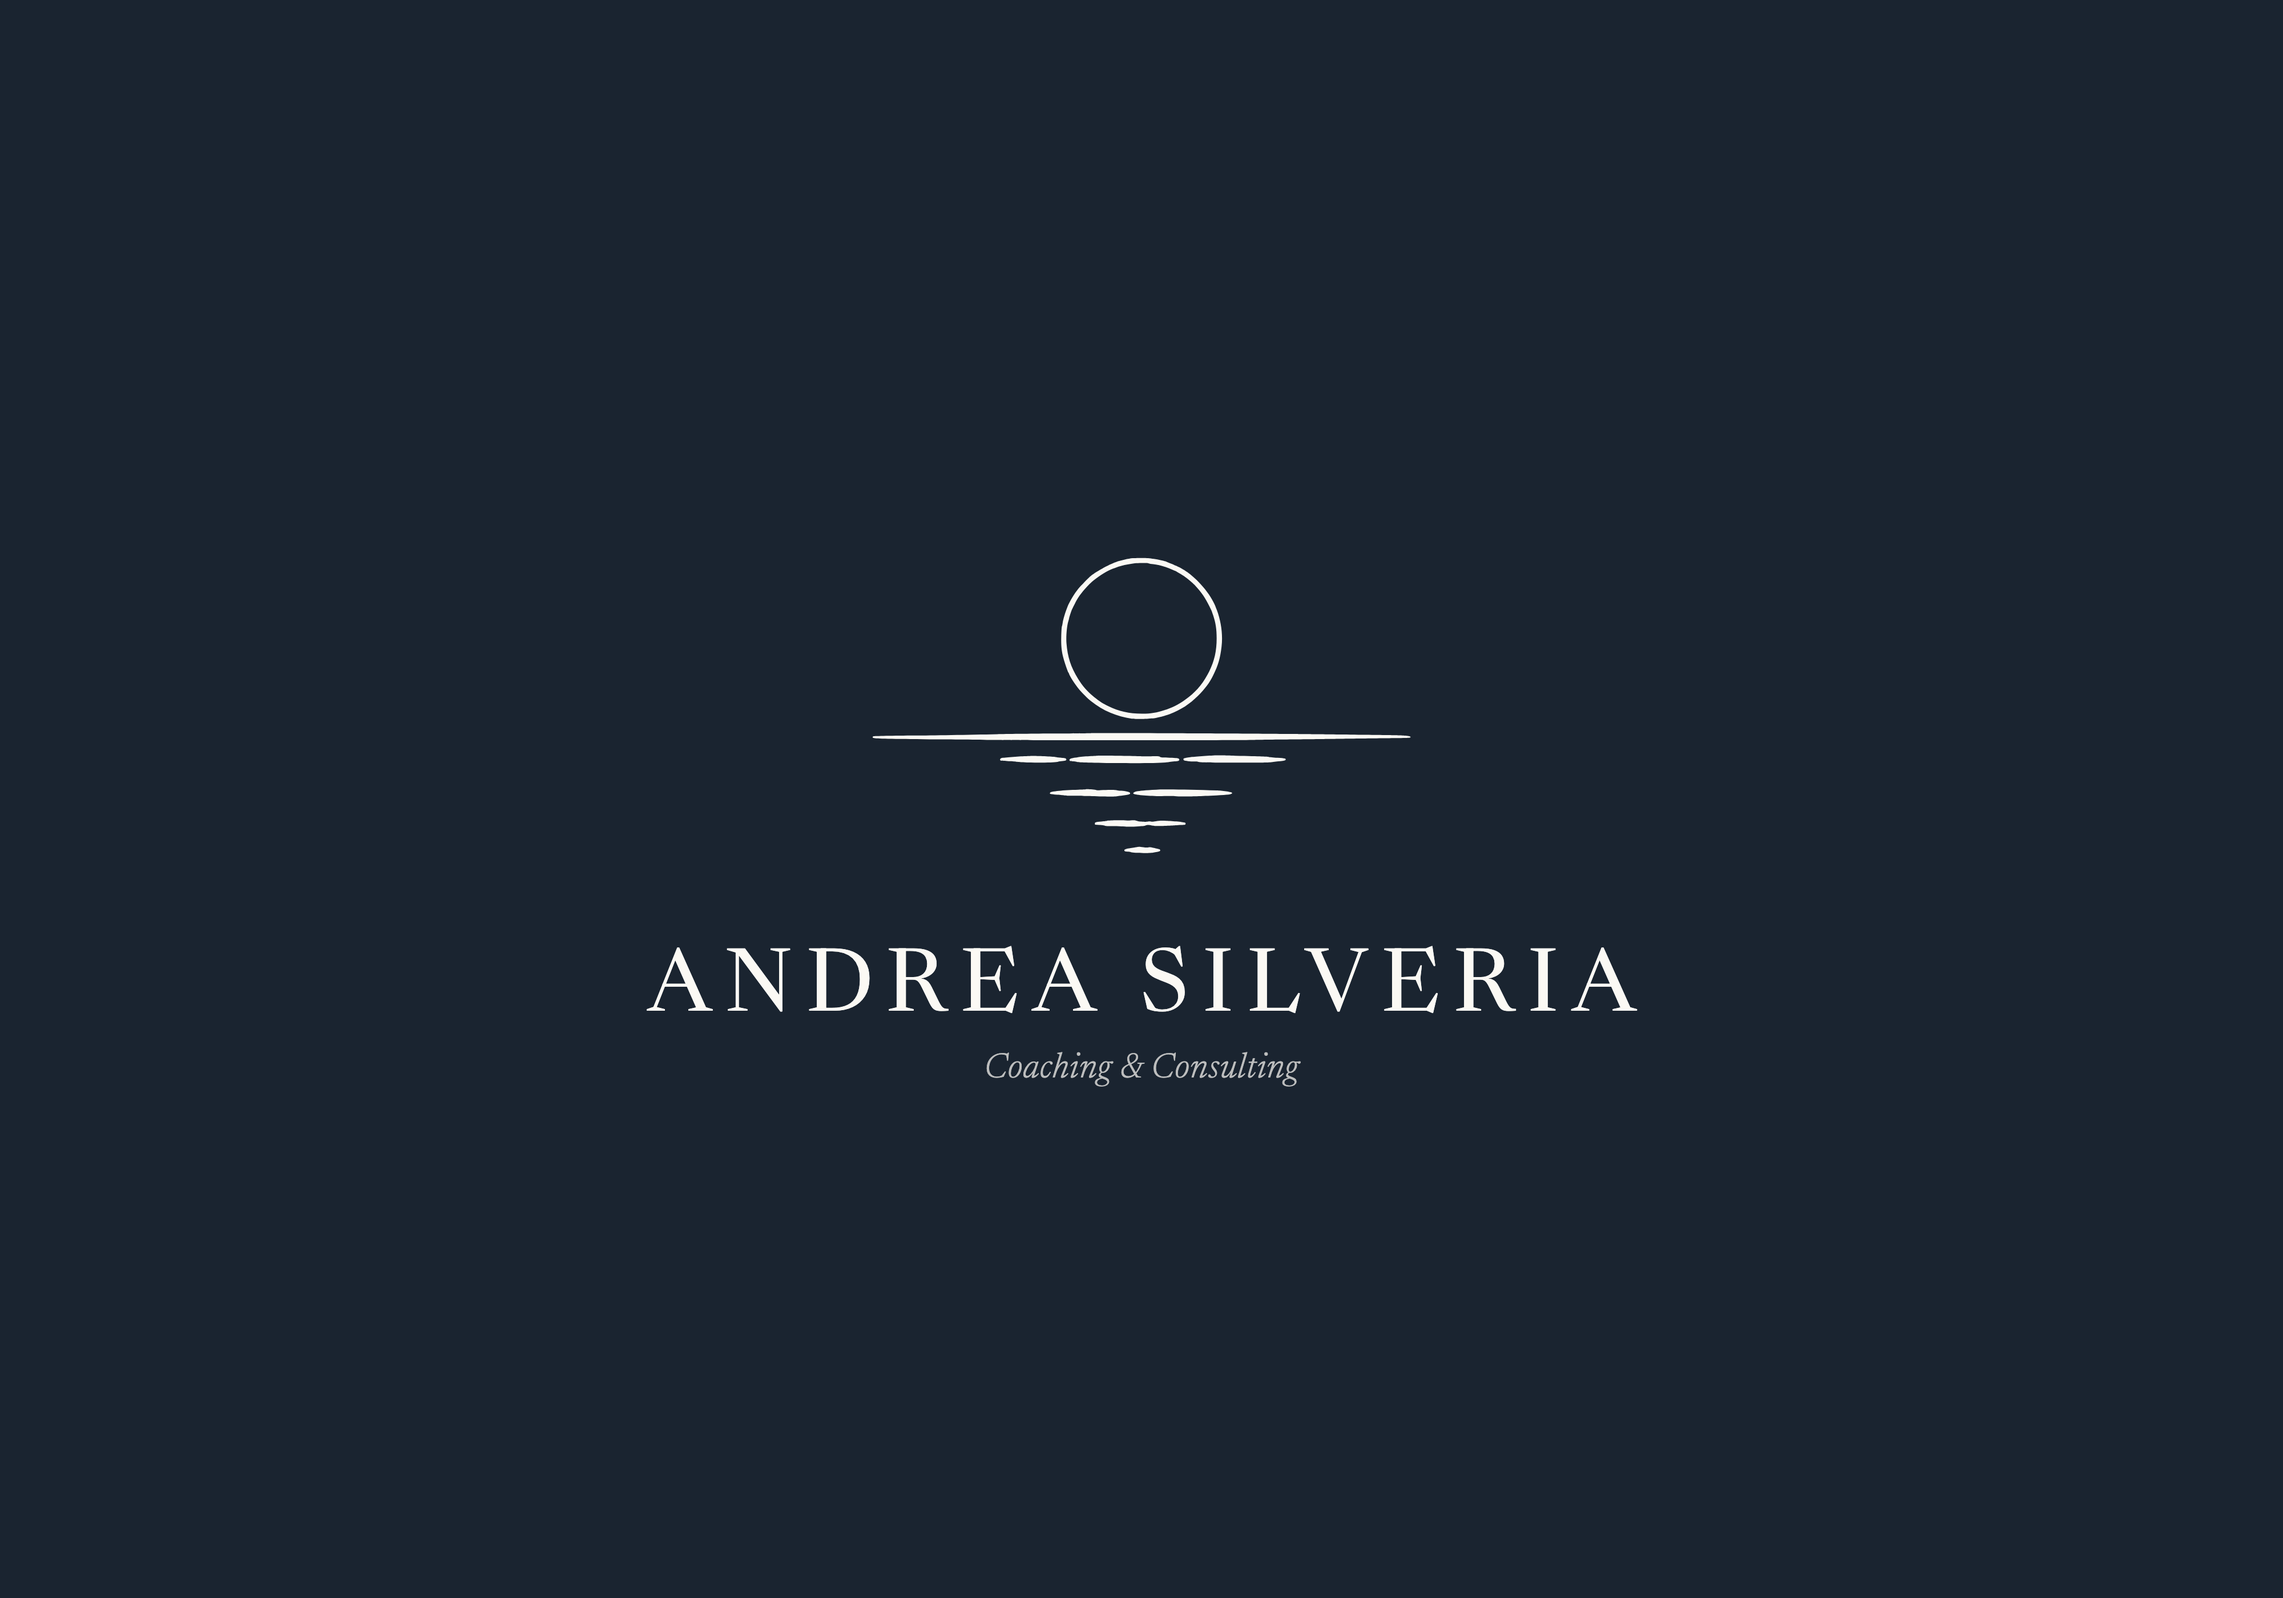
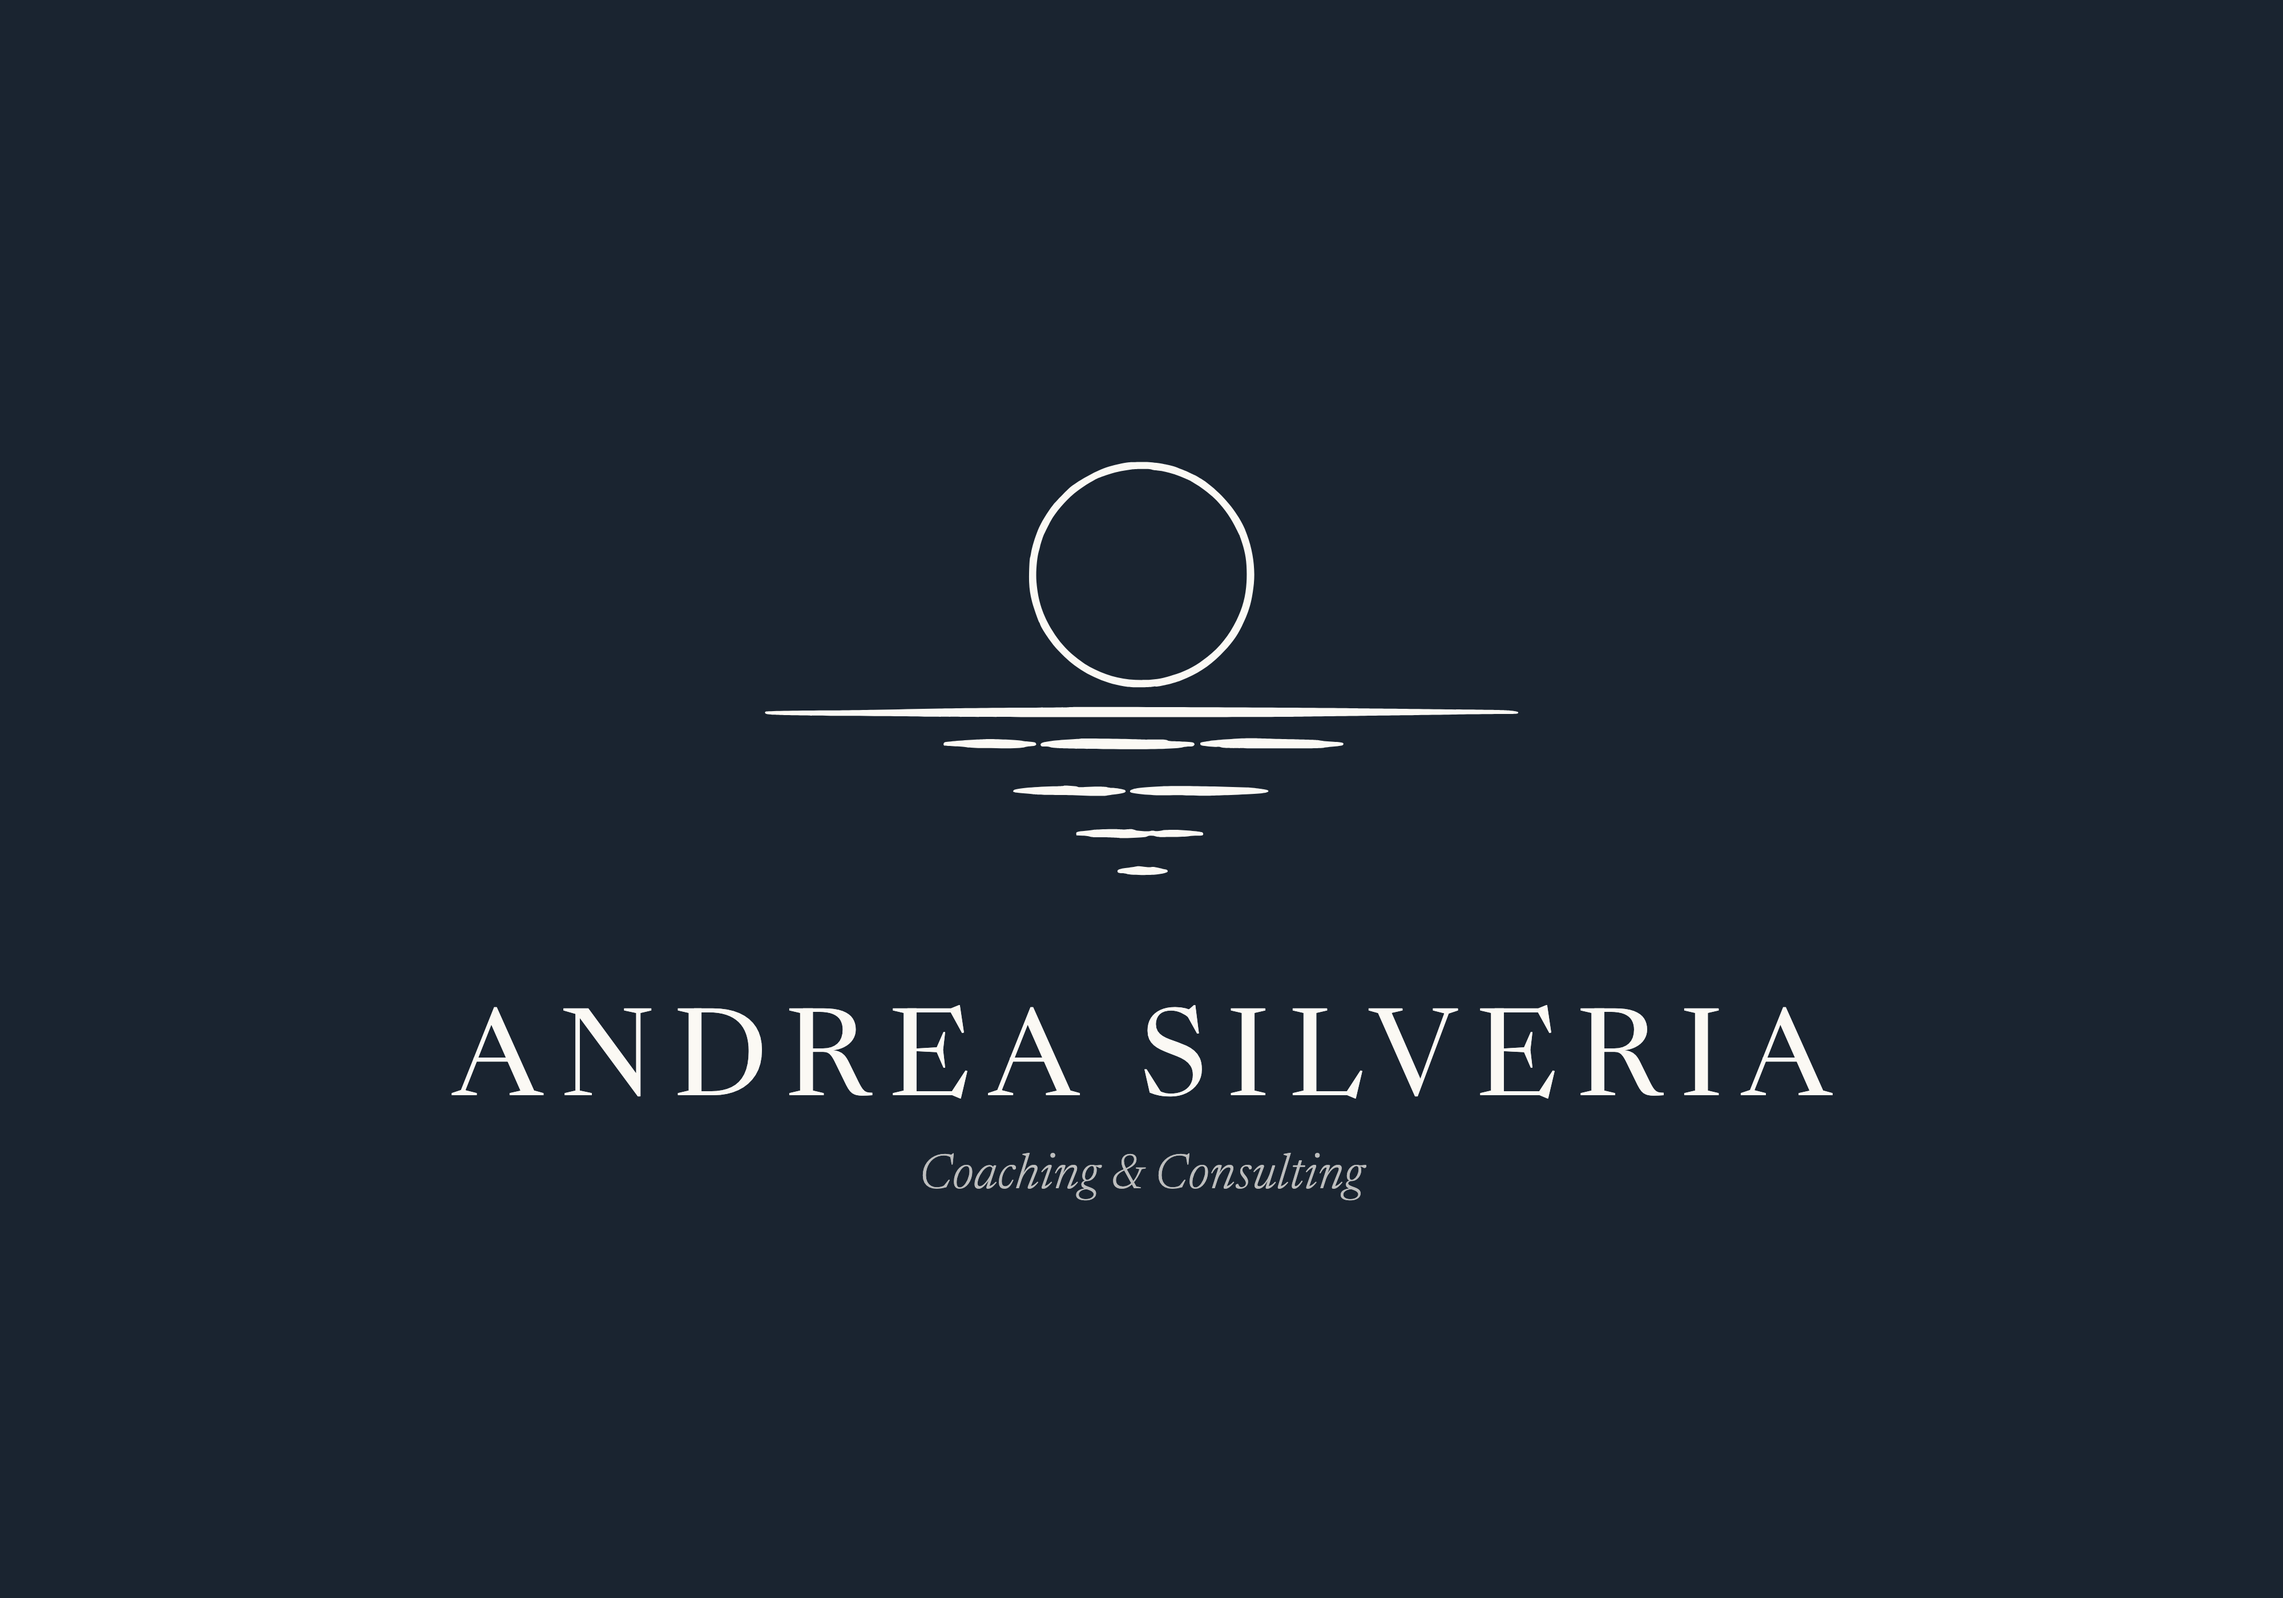
Andi: stacked lockups scaled up ~40% in their frames so the sub-line reads at screen size

diff --git a/andi-silveria/brand/final/_lockup-dark-italic-sub.html b/andi-silveria/brand/final/_lockup-dark-italic-sub.html
@@ -12,4 +12,4 @@ body{font-family:'Mulish',sans-serif;display:flex;align-items:center;justify-con
 .row .name{margin-top:0}
 .row .sub{margin-top:var(--sgap)}
 
-body{width:2000px;height:1400px;background:#1A2430;--ink:#FBF9F4;--mh:340px;--ns:76px;--ss:18px;--gap:38px;--sgap:12px}</style></head><body><div class="lock"><img src="mark-moonset-cream.svg"><div class="name">ANDREA SILVERIA</div><div class="sub ital">Coaching &amp; Consulting</div></div></body></html>
+body{width:2000px;height:1400px;background:#1A2430;--ink:#FBF9F4;--mh:476px;--ns:106px;--ss:25px;--gap:53px;--sgap:17px}</style></head><body><div class="lock"><img src="mark-moonset-cream.svg"><div class="name">ANDREA SILVERIA</div><div class="sub ital">Coaching &amp; Consulting</div></div></body></html>

diff --git a/andi-silveria/brand/final/_lockup-transparent-cream.html b/andi-silveria/brand/final/_lockup-transparent-cream.html
@@ -12,4 +12,4 @@ body{font-family:'Mulish',sans-serif;display:flex;align-items:center;justify-con
 .row .name{margin-top:0}
 .row .sub{margin-top:var(--sgap)}
 
-body{width:1400px;height:900px;background:transparent;--ink:#FBF9F4;--mh:340px;--ns:76px;--ss:24px;--gap:38px;--sgap:22px}</style></head><body><div class="lock"><img src="mark-moonset-cream.svg"><div class="name">ANDREA SILVERIA</div><div class="sub">COACHING &amp; CONSULTING</div></div></body></html>
+body{width:1400px;height:900px;background:transparent;--ink:#FBF9F4;--mh:425px;--ns:95px;--ss:30px;--gap:48px;--sgap:27px}</style></head><body><div class="lock"><img src="mark-moonset-cream.svg"><div class="name">ANDREA SILVERIA</div><div class="sub">COACHING &amp; CONSULTING</div></div></body></html>

diff --git a/andi-silveria/brand/final/_lockup-transparent-navy.html b/andi-silveria/brand/final/_lockup-transparent-navy.html
@@ -12,4 +12,4 @@ body{font-family:'Mulish',sans-serif;display:flex;align-items:center;justify-con
 .row .name{margin-top:0}
 .row .sub{margin-top:var(--sgap)}
 
-body{width:1400px;height:900px;background:transparent;--ink:#1A2430;--mh:340px;--ns:76px;--ss:24px;--gap:38px;--sgap:22px}</style></head><body><div class="lock"><img src="mark-moonset-navy.svg"><div class="name">ANDREA SILVERIA</div><div class="sub">COACHING &amp; CONSULTING</div></div></body></html>
+body{width:1400px;height:900px;background:transparent;--ink:#1A2430;--mh:425px;--ns:95px;--ss:30px;--gap:48px;--sgap:27px}</style></head><body><div class="lock"><img src="mark-moonset-navy.svg"><div class="name">ANDREA SILVERIA</div><div class="sub">COACHING &amp; CONSULTING</div></div></body></html>

diff --git a/andi-silveria/brand/final/_lockup-dark.html b/andi-silveria/brand/final/_lockup-dark.html
@@ -12,4 +12,4 @@ body{font-family:'Mulish',sans-serif;display:flex;align-items:center;justify-con
 .row .name{margin-top:0}
 .row .sub{margin-top:var(--sgap)}
 
-body{width:2000px;height:1400px;background:#1A2430;--ink:#FBF9F4;--mh:340px;--ns:76px;--ss:24px;--gap:38px;--sgap:22px}</style></head><body><div class="lock"><img src="mark-moonset-cream.svg"><div class="name">ANDREA SILVERIA</div><div class="sub">COACHING &amp; CONSULTING</div></div></body></html>
+body{width:2000px;height:1400px;background:#1A2430;--ink:#FBF9F4;--mh:476px;--ns:106px;--ss:34px;--gap:53px;--sgap:30px}</style></head><body><div class="lock"><img src="mark-moonset-cream.svg"><div class="name">ANDREA SILVERIA</div><div class="sub">COACHING &amp; CONSULTING</div></div></body></html>

diff --git a/andi-silveria/brand/final/_lockup-light.html b/andi-silveria/brand/final/_lockup-light.html
@@ -12,4 +12,4 @@ body{font-family:'Mulish',sans-serif;display:flex;align-items:center;justify-con
 .row .name{margin-top:0}
 .row .sub{margin-top:var(--sgap)}
 
-body{width:2000px;height:1400px;background:#F7F3EA;--ink:#1A2430;--mh:340px;--ns:76px;--ss:24px;--gap:38px;--sgap:22px}</style></head><body><div class="lock"><img src="mark-moonset-navy.svg"><div class="name">ANDREA SILVERIA</div><div class="sub">COACHING &amp; CONSULTING</div></div></body></html>
+body{width:2000px;height:1400px;background:#F7F3EA;--ink:#1A2430;--mh:476px;--ns:106px;--ss:34px;--gap:53px;--sgap:30px}</style></head><body><div class="lock"><img src="mark-moonset-navy.svg"><div class="name">ANDREA SILVERIA</div><div class="sub">COACHING &amp; CONSULTING</div></div></body></html>

diff --git a/andi-silveria/brand/final/build.py b/andi-silveria/brand/final/build.py
@@ -31,11 +31,11 @@ def row(mark):
 
 jobs = [
  # name, html, width, height, transparent
- ("lockup-dark",    page(stacked("mark-moonset-cream.svg"), NAVY,  CREAM, 340, 76, 24, 38, 22), 2000, 1400, False),
- ("lockup-light",   page(stacked("mark-moonset-navy.svg"),  LIGHTBG, NAVY, 340, 76, 24, 38, 22), 2000, 1400, False),
- ("lockup-dark-italic-sub",  page(stacked("mark-moonset-cream.svg", True), NAVY, CREAM, 340, 76, 18, 38, 12), 2000, 1400, False),
- ("lockup-transparent-navy", page(stacked("mark-moonset-navy.svg"), "transparent", NAVY, 340, 76, 24, 38, 22, 1400, 900), 1400, 900, True),
- ("lockup-transparent-cream",page(stacked("mark-moonset-cream.svg"), "transparent", CREAM, 340, 76, 24, 38, 22, 1400, 900), 1400, 900, True),
+ ("lockup-dark",    page(stacked("mark-moonset-cream.svg"), NAVY,  CREAM, 476, 106, 34, 53, 30), 2000, 1400, False),
+ ("lockup-light",   page(stacked("mark-moonset-navy.svg"),  LIGHTBG, NAVY, 476, 106, 34, 53, 30), 2000, 1400, False),
+ ("lockup-dark-italic-sub",  page(stacked("mark-moonset-cream.svg", True), NAVY, CREAM, 476, 106, 25, 53, 17), 2000, 1400, False),
+ ("lockup-transparent-navy", page(stacked("mark-moonset-navy.svg"), "transparent", NAVY, 425, 95, 30, 48, 27, 1400, 900), 1400, 900, True),
+ ("lockup-transparent-cream",page(stacked("mark-moonset-cream.svg"), "transparent", CREAM, 425, 95, 30, 48, 27, 1400, 900), 1400, 900, True),
  ("avatar-dark",    page('<div class="lock"><img src="mark-moonset-cream.svg"></div>', NAVY, CREAM, 520, 0, 0, 0, 0, 1000, 1000), 1000, 1000, False),
  ("avatar-light",   page('<div class="lock"><img src="mark-moonset-navy.svg"></div>', LIGHTBG, NAVY, 520, 0, 0, 0, 0, 1000, 1000), 1000, 1000, False),
  ("email-signature",page(row("mark-moonset-navy.svg"), "transparent", NAVY, 96, 30, 9, 28, 8, 600, 140), 600, 140, True),
